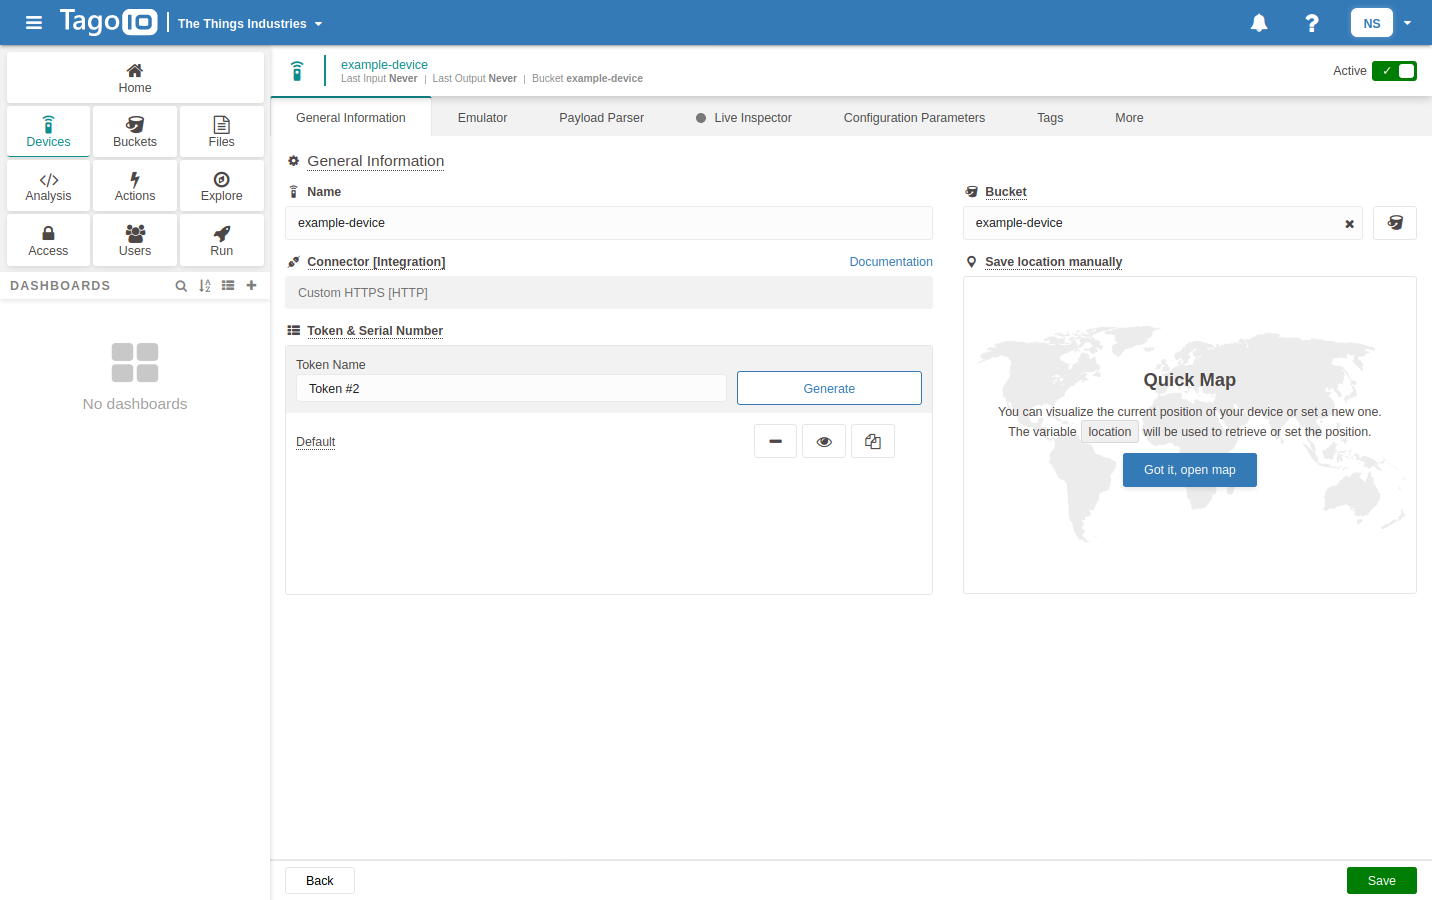
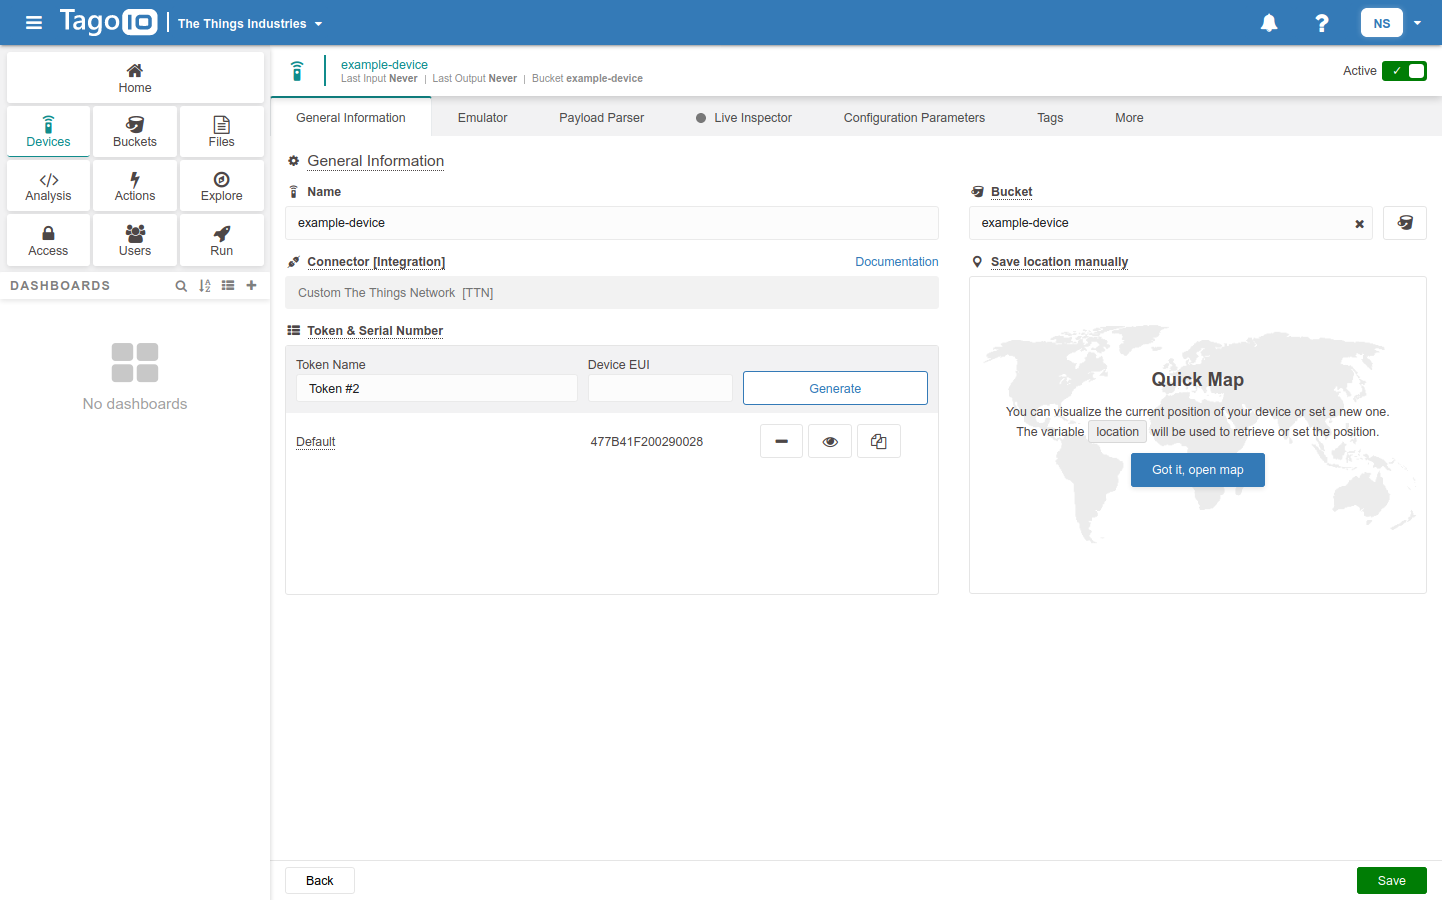
doc: Update Tago integration guide (#3096)

diff --git a/doc/content/integrations/webhooks/cloud-integrations/tagoio/tagoio-setup/_index.md b/doc/content/integrations/webhooks/cloud-integrations/tagoio/tagoio-setup/_index.md
@@ -10,20 +10,24 @@ This section helps you to prepare TagoIO setup for integration with {{% tts %}}.
 
 Log in to your TagoIO user account and click the **Devices** button on the left hand menu. 
 
-Select **Add Device** to add a new device.
+Select **Add Device** in the upper right to add a new device.
 
-{{< figure src="add-device.png" alt="Adding a device on TagoIO" >}}
+The list of available devices will pop out. Choose **LoRaWAN TTN** and then select **Custom The Things Network**.
 
-The list of possible devices will pop out. Choose **HTTP** and then select **Custom HTTPS**.
+{{< figure src="custom-ttn-device.png" alt="Choosing a Custom TTN device" >}}
 
-{{< figure src="http-device.png" alt="Defining an HTTP device" >}}
+Give a name to your device by filling the **Device name** field, enter the **Device EUI** and click the **Create device** button to finish.
 
-Fill in the **Device name** field and click the **Create device** button to finish.
+{{< figure src="device-settings.png" alt="Configuring a device" >}}
+
+When your device has been created, the window with a note for generating an [authorization](https://docs.tago.io/en/articles/218) will pop out. Click the **Generate Authorization** button. 
+
+{{< figure src="auth-pop-out.png" alt="Generate Authorization pop-out window" >}}
+
+When redirected to the **Service Authorization** page, fill in the **Name** field and select **Generate**. Copy this value for further steps.
 
 Select the created device in **Devices** to access its features.
 
-On the **General Information** tab, find the **Token & Serial Number** section, where you can generate and copy a token needed in the next section of this guide.
+{{< figure src="device-features.png" alt="Device features" >}}
 
-{{< figure src="device-features.png" alt="Device features and token" >}}
-
-Navigate to the **Live Inspector tab** and press the **Start** button to prepare the integration for the incoming messages from {{% tts %}}.
+Navigate to the **Live Inspector** tab and press the **Start** button to prepare the integration for the incoming messages from {{% tts %}}.

diff --git a/doc/content/integrations/webhooks/cloud-integrations/tagoio/tts-setup/_index.md b/doc/content/integrations/webhooks/cloud-integrations/tagoio/tts-setup/_index.md
@@ -8,18 +8,20 @@ Next, create a Webhook integration on {{% tts %}} by following this section.
 
 <!--more-->
 
->Note: this section follows the [HTTP Webhooks]({{< ref "/integrations/webhooks" >}}) guide. 
+>Note: **TagoIO** Webhook template is now available on {{% tts %}}, but in case you want to create a **Custom webhook**, this guide can be helpful. Read more about these templates in the [Webhook templates]({{< ref "/integrations/webhooks/webhook-templates" >}}) page.
+
+>Note: this section follows the [HTTP Webhooks]({{< ref "/integrations/webhooks" >}}) guide.  
 
 Fill in the **Webhook ID** field. 
 
-Create a `Content-Type` header entry with `application/json` value, and a `Device-Token` header entry with the token value you previously copied from TagoIO.
+Create an `Authorization` header entry with the authorization copied in the previous step as a value.
 
-Choose **JSON** for **Webhook format**
+Choose **JSON** as a **Webhook format**.
 
-Set the **Base URL** value to `https://api.tago.io/data`.
+Set the **Base URL** value to `https://ttn.middleware.tago.io`.
 
-Tick the box besides the message types which you want to enable this webhook for and select **Add webhook**.
+Tick the box besides the uplink message type to enable this webhook for it and enter `/uplink` as an additional path to be appended to the **Base URL**.
 
 {{< figure src="creating-a-webhook.png" alt="TagoIO webhook" >}}
 
-After following these steps, you will see messages arrive in the **Live Inspector** tab in TagoIO.
+After following these steps, you will see messages arriving in the **Live Inspector** tab in TagoIO.
